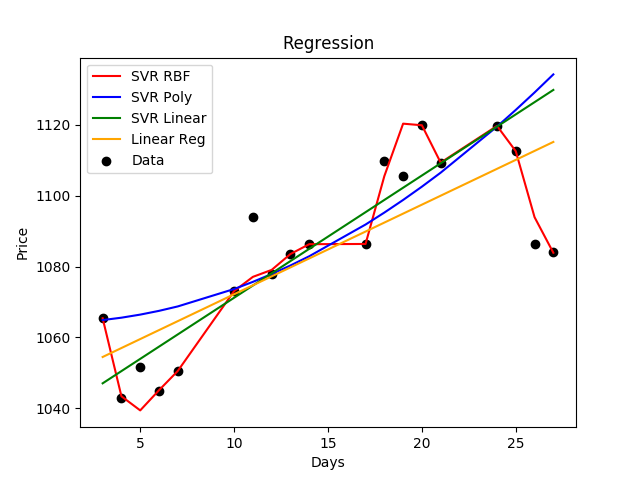
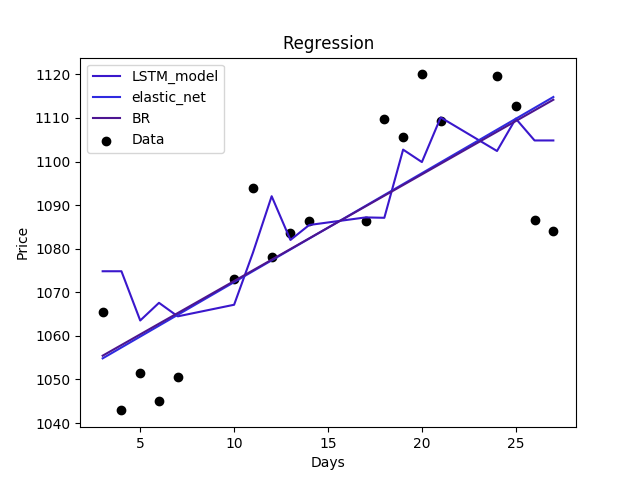
Fixed some issues

diff --git a/utils.py b/utils.py
@@ -11,10 +11,26 @@ from keras.layers import LSTM
 from sklearn.preprocessing import MinMaxScaler
 from sklearn.metrics import mean_squared_error
 import numpy
+import pandas as pd
 import math
+from sklearn.linear_model import ElasticNet
+import os
+
 # setting a seed for reproducibility
 numpy.random.seed(10)
 
+def read_all_stock_files(folder_path):
+    allFiles = []
+    for (_, _, files) in os.walk(folder_path):
+        allFiles.extend(files)
+        break
+
+    dataframe_dict = {}
+    for stock_file in allFiles:
+        df = pd.read_csv(folder_path + "/" +stock_file)
+        dataframe_dict[(stock_file.split('_'))[0]] = df
+
+    return dataframe_dict
 
 # convert an array of values into a dataset matrix
 def create_dataset(dataset, look_back=1):
@@ -133,15 +149,14 @@ def DT(dates, prices, test_date, df):
     return (decision_boundary, prediction)
 
 
-def BR(dates, prices, test_date, df):
-    br = linear_model.BayesianRidge()
-    br.fit(dates, prices)
-    decision_boundary = br.predict(dates)
+def elastic_net(dates, prices, test_date, df):
+    regr = ElasticNet(random_state=0)
+    regr.fit(dates, prices)
+    decision_boundary = regr.predict(dates)
 
-    prediction = br.predict([[test_date]])[0]
+    prediction = regr.predict([[test_date]])[0]
 
     return (decision_boundary, prediction)
-
 
 def LSTM_model(dates, prices, test_date, df):
     df.drop(df.columns.difference(['Date', 'Open']), 1, inplace=True)
@@ -184,6 +199,8 @@ def LSTM_model(dates, prices, test_date, df):
     testY = scaler.inverse_transform([testY])
     # calculate root mean squared error
     trainPredict = [item for sublist in trainPredict for item in sublist]
+    trainPredict.insert(0, trainPredict[0])
+    trainPredict.append(trainPredict[-1])
     # print(trainPredict, testPredict[0])
 
     return (trainPredict, testPredict[0])

diff --git a/goog_stock.py b/goog_stock.py
@@ -31,7 +31,7 @@ def create_plot(dates, original_prices, ml_models_outputs):
     plt.ylabel('Price')
     plt.title('Regression')
     plt.legend()
-    # plt.savefig("Plot.png")
+    plt.savefig("Plot.png")
     plt.show()
 
 
@@ -50,4 +50,6 @@ def train_predict_plot(file_name, ml_model):
     create_plot(dates, prices, ml_models_outputs)
 
 
-train_predict_plot('GOOG_30_days.csv', ['LSTM_model'])
+# train_predict_plot('GOOG_30_days.csv', ['LSTM_model', 'elastic_net', 'BR'])
+all_files = utils.read_all_stock_files('individual_stocks_5yr')
+print (all_files.keys())
